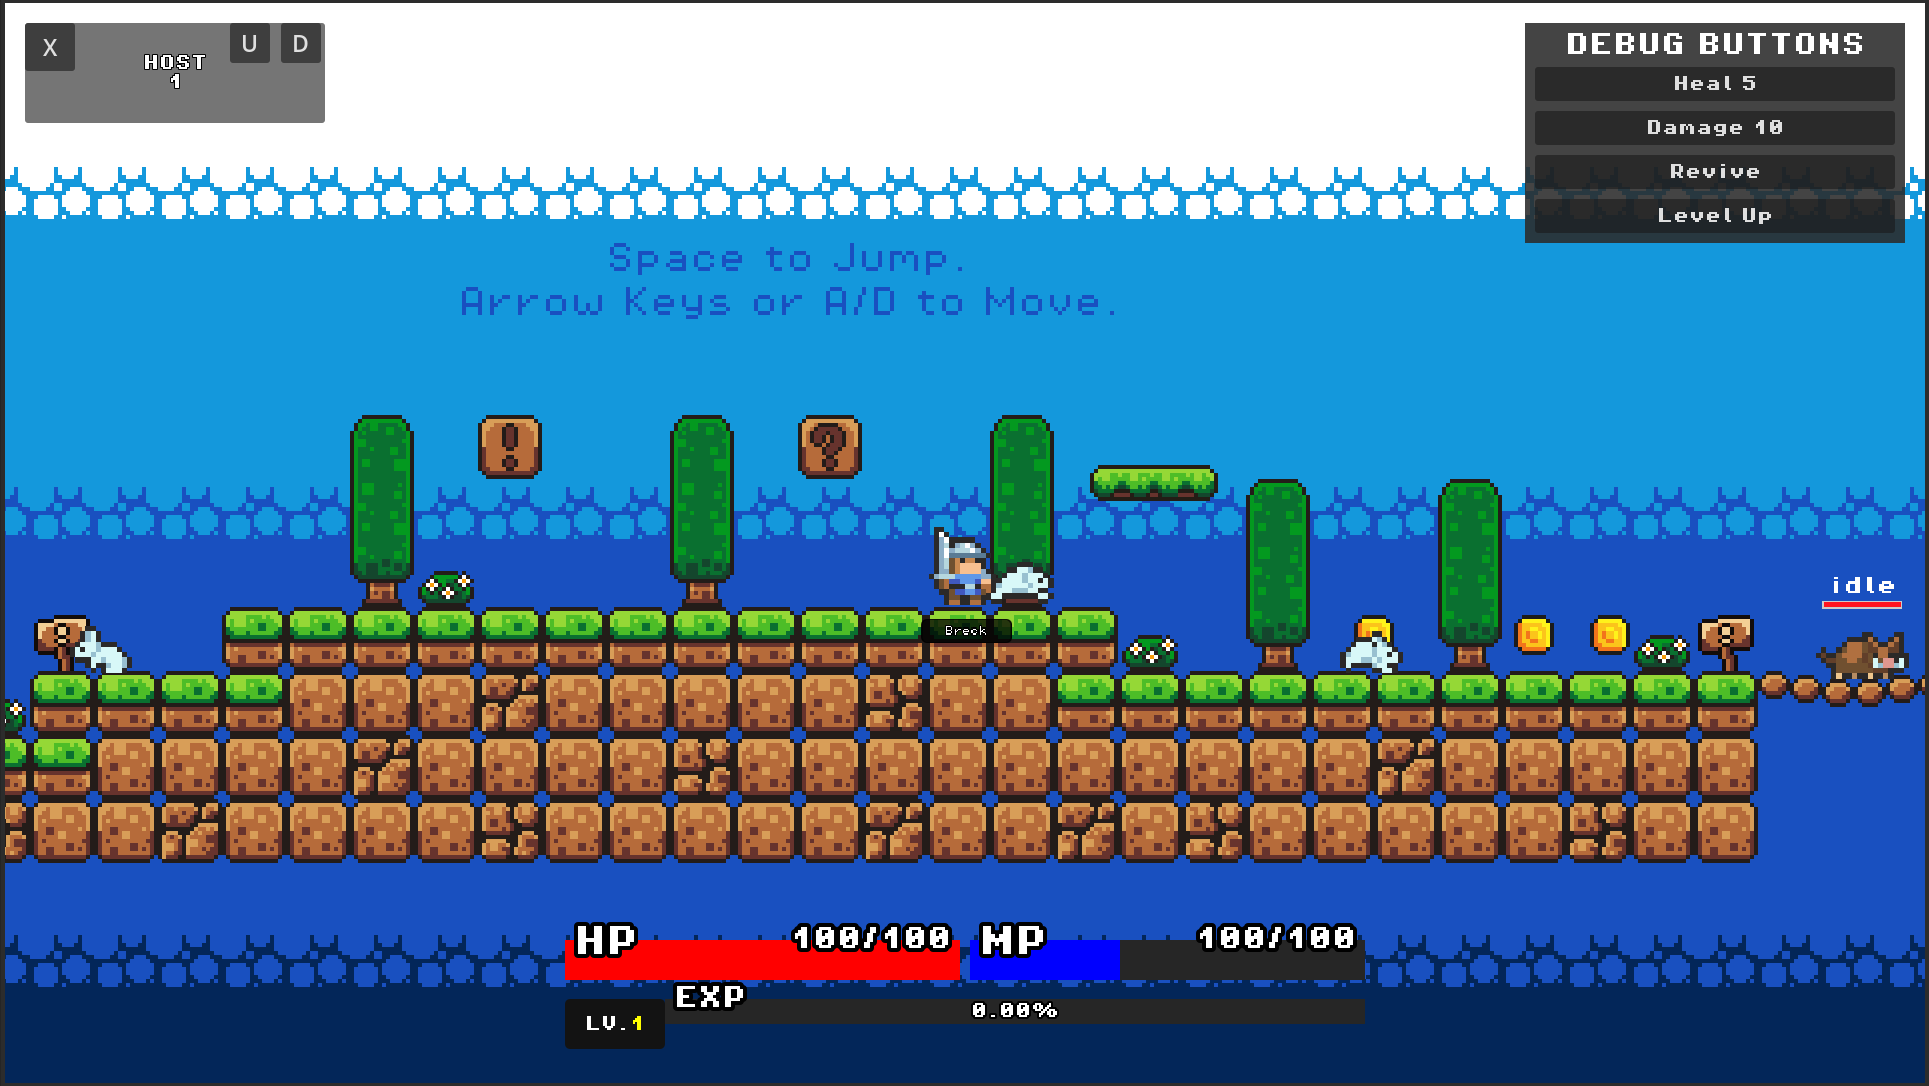
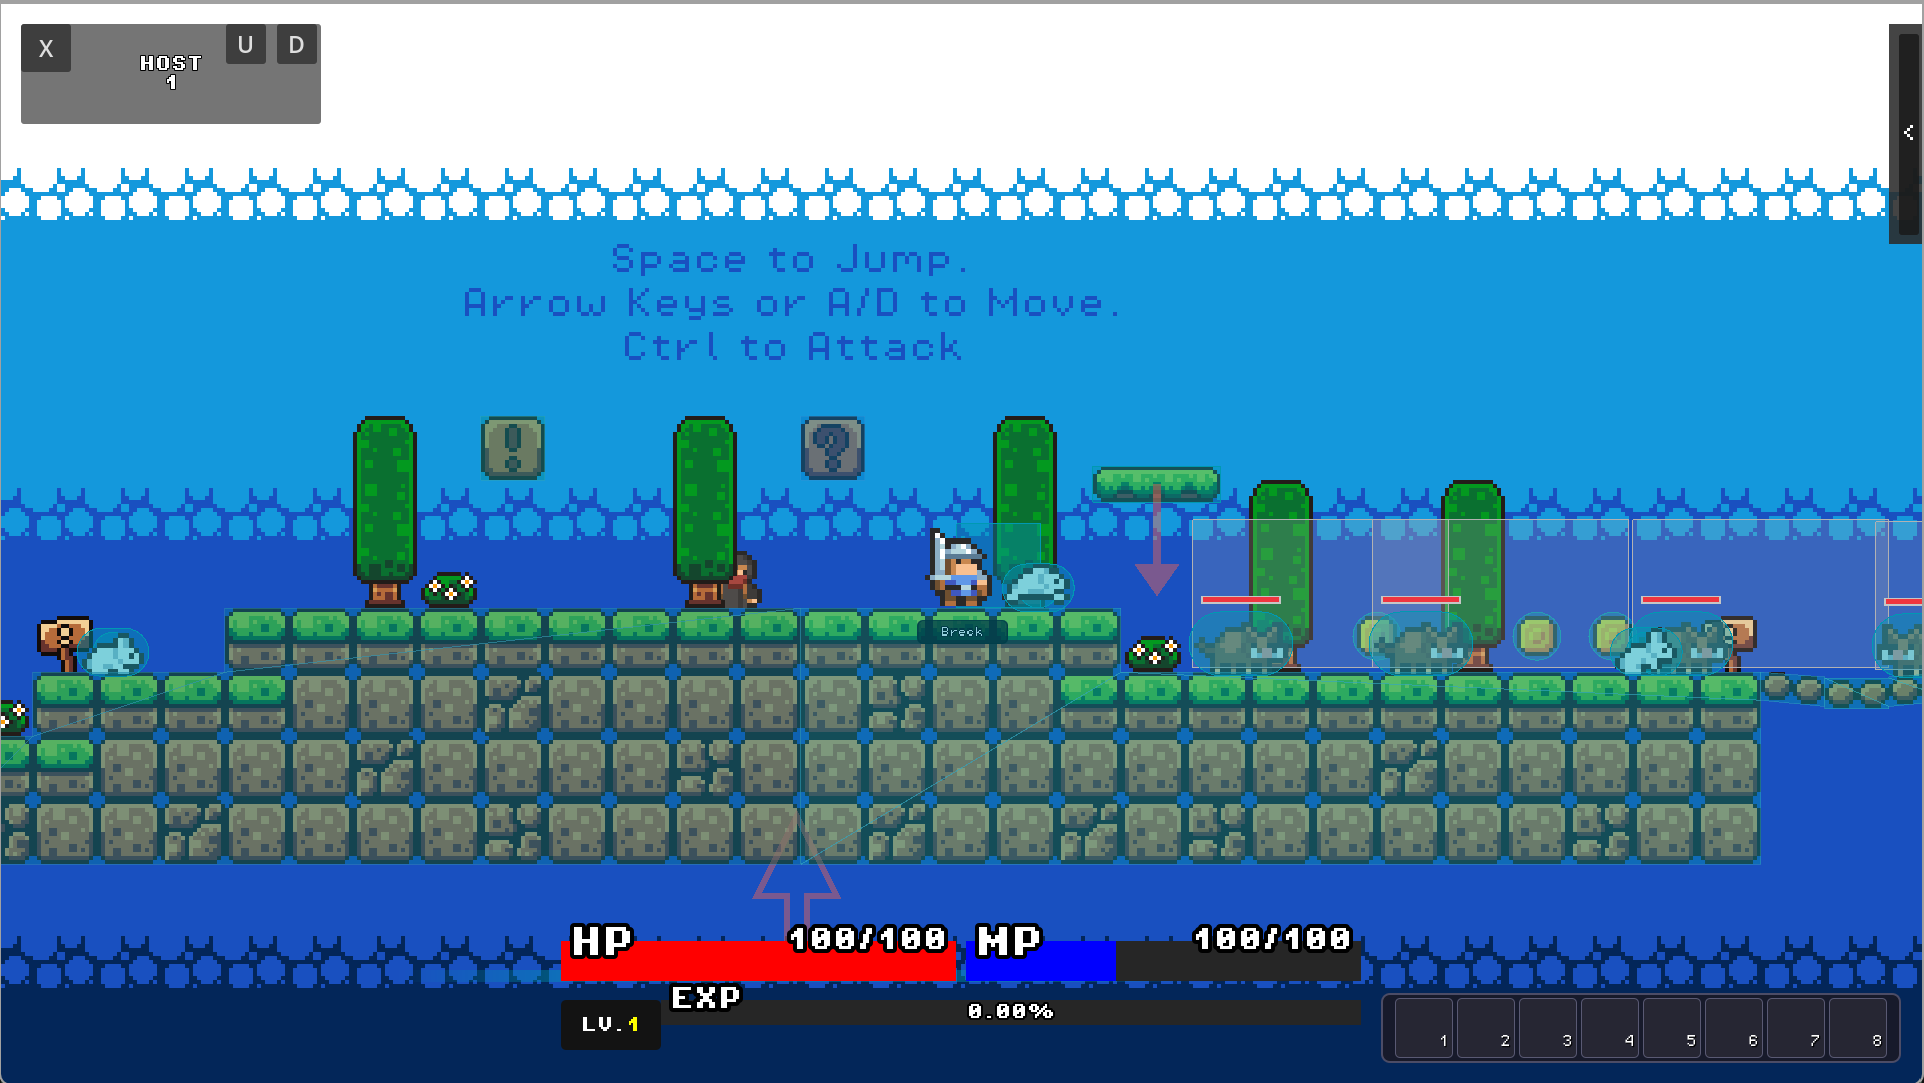
README Update

diff --git a/README.md b/README.md
@@ -13,6 +13,12 @@ Welcome to the **Multiplayer Godot Project**! This project is a demonstration of
 - Killzones that trigger server-authoritative death
 - Droppable one-way platforms and mobile HUD support
 - Enemy AI and spawners
+- **Ability System**: Learn and level up abilities with skill points, active/passive abilities with cooldowns
+- **Buff/Debuff System**: Temporary stat modifications with stacking, refresh, and custom logic
+- **Equipment System**: Equip armor and weapons with stat bonuses and visual changes
+- **Inventory System**: Item management with stacking, drag-and-drop, and server validation
+- **Resource Management**: Centralized loading and caching of game data
+- **Advanced UI**: Draggable windows for abilities, equipment, stats, and inventory
 
 ## Screenshots
 
@@ -21,6 +27,12 @@ Welcome to the **Multiplayer Godot Project**! This project is a demonstration of
 
 ### In-Game View
 ![In-Game](README/In_game_view.png)
+
+### UI Systems
+![Stats and Inventory Windows](README/stats_inventory_windows.png)
+
+### Ability System
+![Ability Window](README/ability_window.png)
 
 ## Getting Started
 
@@ -76,6 +88,15 @@ Notes:
     - State: `active_players: { id -> {character_type, spawn_time, synced} }`.
     - Public API: `add_host_player()`, `add_player(id)`, `remove_player(id)`, `cleanup()`, `force_respawn_player(id)`, info getters.
     - Behavior: on join, requests client character selection via RPC, spawns the chosen character under `Level/Players`, syncs existing networked entities to the new peer, and updates tracking; removes entities on disconnect.
+  - `resource_manager.gd`
+    - Centralized resource loading and caching system.
+    - Manages: `class_data`, `item_data`, `ability_data`, `buff_data` dictionaries.
+    - Public API: `get_item_data()`, `get_ability_data()`, `get_buff_data()`, `get_class_data()`.
+    - Behavior: loads all game resources on startup; provides ID and name-based lookups; supports both UUID and string identifiers.
+  - `music_manager.gd`
+    - Audio management for background music and sound effects.
+    - Public API: `play_song(path)`.
+    - Behavior: handles audio stream loading and playback.
 
 - `Networking/`
   - `channel_manager.gd`
@@ -144,6 +165,30 @@ The player and enemies are composed from small, focused components that live as 
   - Damage formula: starts from `AttackData.damage`, then applies class-appropriate scaling from Stats (e.g., STR/DEX/INT bonuses).
   - Debounce: `hit_list` ensures a body is only hit once per attack window.
 
+- Ability (`scripts/Components/ability.gd`)
+  - Manages character abilities including learning, leveling, usage, cooldowns, and passive effects.
+  - Signals: `ability_used`, `cooldown_started`, `ability_leveled_up`, `ability_learned`, `ability_points_changed`.
+  - Features: skill point system, ability prerequisites, passive stat bonuses, proc effects, multiplayer synchronization.
+  - Integration: works with ClassComponent, StatsComponent, and LevelingComponent.
+
+- Buff (`scripts/Components/buff.gd`)
+  - Manages temporary and permanent buffs/debuffs with stat modifications and custom logic.
+  - Signals: `buff_applied`, `buff_removed`, `buff_refreshed`.
+  - Features: stacking behavior (refresh/stack/ignore), duration tracking, custom script execution.
+  - Integration: provides stat modifiers to StatsComponent, supports reactive buffs on damage events.
+
+- Equipment (`scripts/Components/equipment.gd`)
+  - Manages character equipment slots (head, chest, legs, feet, weapon) with type restrictions.
+  - Signals: `on_equipment_changed`.
+  - Features: equipment type validation, stat bonus application, visual changes.
+  - Integration: works with InventoryComponent for item management and StatsComponent for stat bonuses.
+
+- Inventory (`scripts/Components/inventory.gd`)
+  - Comprehensive item management system with stacking, drag-and-drop, and server validation.
+  - Features: item tracking, stack management, equipment integration, multiplayer synchronization.
+  - UI: supports multiple inventory grids, equipment slots, currency display.
+  - Networking: client-side optimistic updates with server validation and rollback on conflicts.
+
 - Debug (`scripts/Components/debug.gd`)
   - Dev-only panel with buttons to heal, damage (ignoring invuln), force revive, and grant EXP to next level.
   - Hooks into the player via `set_player()` and health via `set_health_component()`.
@@ -152,10 +197,14 @@ The player and enemies are composed from small, focused components that live as 
   - Utility for verifying wiring in scenes; prints summaries for Class, Stats, Leveling, Health, and Combat and supports quick class/level tests.
 
 Component wiring guidelines
-- Put these as children on the character root (e.g., `Player/Health`, `Player/Stats`, `Player/Leveling`, `Player/Class`, `Player/Combat`).
-- In `MultiplayerPlayerV2`, set the exported references (`health_component`, `combat_component`, `level_component`, `stats_component`, `class_component`, `debug_component`).
+- Put these as children on the character root (e.g., `Player/Health`, `Player/Stats`, `Player/Leveling`, `Player/Class`, `Player/Combat`, `Player/Ability`, `Player/Buff`, `Player/Equipment`, `Player/Inventory`).
+- In `MultiplayerPlayerV2`, set the exported references (`health_component`, `combat_component`, `level_component`, `stats_component`, `class_component`, `debug_component`, `ability_component`, `buff_component`, `equipment_component`, `inventory_component`).
 - Health: set `health_bar_path` to your HUD ProgressBar.
 - Combat: assign `attack_hitbox` and populate `attack_map` with `AttackData` resources.
+- Ability: requires ClassComponent and StatsComponent siblings; connects to LevelingComponent for skill points.
+- Buff: requires StatsComponent sibling; connects to HealthComponent for reactive buffs.
+- Equipment: configure slot references (head_slot, chest_slot, legs_slot, feet_slot, weapon_slot).
+- Inventory: configure inventory_grids array and equipment_component reference.
 
 Example wiring
 ```gdscript
@@ -167,6 +216,82 @@ attack_map = {
 attack_hitbox = $"../../Hitbox/BasicAttackHitbox"
 ```
 
+## UI Systems
+
+The project includes comprehensive UI systems for managing character progression and equipment:
+
+- **Ability Window** (`scripts/UI/ability_window.gd`)
+  - Draggable window for managing character abilities and skill points.
+  - Features: ability list, detailed stats comparison, level-up interface, prerequisite checking.
+  - Controls: `OpenAbilityWindow` input action toggles visibility.
+  - Integration: connects to AbilityComponent for real-time updates.
+
+- **Equipment Window** (`scripts/UI/equipment_window.gd`)
+  - Draggable window for character equipment management.
+  - Features: equipment slots visualization, drag-and-drop support.
+  - Controls: `OpenEquipmentWindow` input action toggles visibility.
+  - Integration: works with EquipmentComponent and InventoryComponent.
+
+- **Stats Window** (`scripts/UI/stats_window.gd`)
+  - Draggable window displaying comprehensive character statistics.
+  - Features: real-time stat updates, base/bonus breakdown, damage range display.
+  - Controls: `OpenStatsWindow` input action toggles visibility.
+  - Integration: connects to multiple components (Stats, Level, Health, Class) for live updates.
+
+- **Inventory Window** (`scripts/UI/inventory_window.gd`)
+  - Comprehensive item management interface.
+  - Features: grid-based inventory, equipment slots, drag-and-drop, stack management.
+  - Integration: works with InventoryComponent and EquipmentComponent.
+
+- **Hotbar System** (`scripts/UI/hotbar.gd`, `scripts/UI/hotbar_slot.gd`)
+  - Quick-access ability bar for active abilities.
+  - Features: cooldown visualization, ability assignment, key binding support.
+  - Integration: connects to AbilityComponent for ability usage.
+
+- **Buff Bar** (`scripts/UI/buffbar.gd`)
+  - Visual display of active buffs and debuffs.
+  - Features: buff icons, duration timers, stack indicators.
+  - Integration: connects to BuffComponent for real-time updates.
+
+## Resource Systems
+
+The project includes comprehensive resource management for game data:
+
+- **Resource Manager** (`scripts/Managers/resource_manager.gd`)
+  - Centralized loading and caching of all game resources.
+  - Manages: class data, item data, ability data, buff data.
+  - Features: ID and name-based lookups, automatic resource loading on startup.
+  - Public API: `get_item_data()`, `get_ability_data()`, `get_buff_data()`, `get_class_data()`.
+
+- **Ability System Resources** (`scripts/Resources/AbilitySystem/`)
+  - `AbilityData.gd`: Core ability resource with scaling formulas and level data.
+  - `AbilityLevelData.gd`: Per-level ability statistics and scaling.
+  - `AbilityScalingData.gd`: Mathematical formulas for ability progression.
+  - `ActiveBehaviorData.gd`: Active ability behavior configuration.
+  - `ProcEffectData.gd`: Passive ability proc effect definitions.
+
+- **Buff System Resources** (`scripts/Resources/BuffSystem/`)
+  - `BuffData.gd`: Buff/debuff resource with stat modifiers and custom logic.
+  - Features: stacking behavior, duration, custom script execution.
+
+- **Item System Resources** (`scripts/Resources/ItemSystem/`)
+  - Comprehensive item management with equipment, consumables, and currency.
+  - Features: item types, stacking, equipment slots, stat bonuses.
+
+- **Class System Resources** (`scripts/Resources/ClassSystem/`)
+  - `ClassData.gd`: Character class definitions with stat bonuses and abilities.
+  - Features: class-specific skills, sprite frames, stat growth.
+
+- **Ability Logic Scripts** (`scripts/AbilityLogic/`)
+  - Custom ability execution scripts for active abilities.
+  - Examples: `AL_EnhancedBasics.gd`, `AL_PowerGuard.gd`, `AL_SlashBlast.gd`.
+  - Integration: executed by AbilityComponent during ability usage.
+
+- **Buff Logic Scripts** (`scripts/BuffLogic/`)
+  - Custom buff behavior scripts for reactive effects.
+  - Examples: `BL_PowerGuard.gd` for damage reflection.
+  - Integration: executed by BuffComponent for custom buff logic.
+
 ### Character selection and sprites
 - Characters available: Swordsman, Archer, Mage (select in main menu).
 - The server applies class changes and picks the best sprite set based on the player level.
@@ -174,11 +299,18 @@ attack_hitbox = $"../../Hitbox/BasicAttackHitbox"
   - New clients receive the current sprite state on connect to ensure visual consistency.
 
 ### Networking notes
-- Server is authoritative for movement, combat, health, and respawn logic.
-- Clients send intent (jump/attack/down) via RPCs; the server simulates and replicates.
+- Server is authoritative for movement, combat, health, abilities, buffs, equipment, and respawn logic.
+- Clients send intent (jump/attack/down/ability_use) via RPCs; the server simulates and replicates.
 - Networked entities are tagged with the `networked_entities` group for consistent cleanup.
 - When a new player joins, existing entities can sync their state just to that peer (e.g., current animation/state).
 - Main menu UI is updated on host/join to show connection status and the player's unique ID.
+
+### New System Networking
+- **Ability System**: Server-authoritative ability usage with client-side cooldown display. Ability points and levels are synchronized via RPCs.
+- **Buff System**: Server manages buff application/removal with client-side visual updates. Buff stacks and durations are synchronized.
+- **Equipment System**: Server validates equipment changes with client-side optimistic updates and rollback on conflicts.
+- **Inventory System**: Client-side optimistic item movement with server validation. Inventory state is synchronized on connect and changes.
+- **Resource Management**: All resource data is loaded server-side and synchronized to clients on connection.
 
 ### Scene requirements
 - The gameplay scene should have a `Level` node with a `Players` child; spawns are added under `Level/Players`.
@@ -187,11 +319,16 @@ attack_hitbox = $"../../Hitbox/BasicAttackHitbox"
 
 ### Persistence
 - On the server, player data is saved to `player_<username>.json` via RPCs from `multiplayer_controller_v2.gd`.
-- When a player joins, the server will load their file if present and update components (health, level, exp).
+- When a player joins, the server will load their file if present and update components (health, level, exp, abilities, buffs, equipment, inventory).
 - Delete the corresponding `player_<username>.json` file to reset progress.
+
 Details:
-- Save triggers on server when health changes or experience/level changes.
-- Persisted fields include: `username`, `max_health`, `current_health`, `level`, and `experience`.
+- Save triggers on server when health changes, experience/level changes, ability changes, equipment changes, or inventory changes.
+- Persisted fields include: `username`, `max_health`, `current_health`, `level`, `experience`, `ability_levels`, `ability_points`, `active_buffs`, `equipment`, `inventory_slots`, `monies`.
+- **Ability System**: Saves ability levels, available skill points, and hotbar configuration.
+- **Buff System**: Saves active buffs with stacks and remaining duration.
+- **Equipment System**: Saves equipped items in each slot.
+- **Inventory System**: Saves all inventory slots with items and stack amounts, plus currency.
 
 ### Dedicated Server
 - `multiplayer_manager.gd` will start a dedicated server if the build has the `dedicated_server` feature.
@@ -220,7 +357,7 @@ godot --headless --feature dedicated_server --path . -- --port 8080
 - Drop-through: hold `Move Down` and press `Jump` to pass through drop-through platforms. The player temporarily disables collision with the platform's layer.
 
 ### Autoload singletons (expected)
-- `MultiplayerManager`, `ServerManager`, `ClientManager`, `PlayerManager`, `ChannelManager`, `NetworkUtils` should be configured as AutoLoads and accessible globally.
+- `MultiplayerManager`, `ServerManager`, `ClientManager`, `PlayerManager`, `ChannelManager`, `NetworkUtils`, `ResourceManager`, `MusicManager` should be configured as AutoLoads and accessible globally.
 
 ## Credits
 
